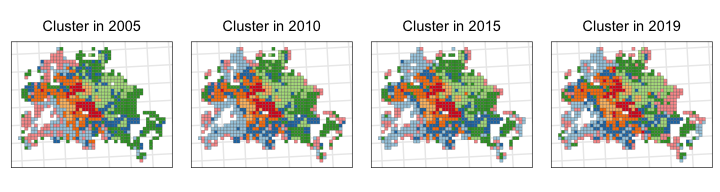
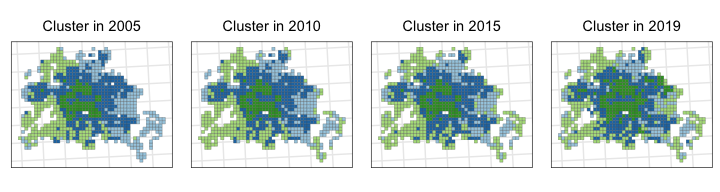
Fixed error with clustering.

diff --git a/auswertung.md b/auswertung.md
@@ -568,11 +568,7 @@ k-means clustering mit den Variablen
 - anteil_efh
 - anteil_60_plus
 
-Es werden 4 Cluster verwendet. *Hier Begründung einfügen*
-
-Zuerst clustering nur für ein Jahr, dann verwenden wir die Cluster
-Center nochmal für alle Jahre. Somit sollten die Cluster über die Zeit
-stabil bleiben.
+Schauen wieviele Cluster wir benutzen sollten.
 
 ``` r
 data_clustering_2015 <- data_social %>%
@@ -582,17 +578,9 @@ data_clustering_2015 <- data_social %>%
   as.matrix() %>%
   scale()
 
+
 set.seed(1)
-kmeans_result_2015 <- kmeans(data_clustering_2015, centers = 4)
-```
-
-Schauen wieviele Cluster wir benutzen sollten.
-
-``` r
-set.seed(1)
-
 max_cluster <- 8
-
 wss_sum <- numeric(max_cluster)
 
 for(n_cluster in 1:max_cluster){
@@ -609,10 +597,21 @@ tibble(n_cluster = 1:max_cluster,
   labs(x = "Anzahl Cluster", y = "Total WSS")
 ```
 
-![](auswertung_files/figure-gfm/unnamed-chunk-12-1.png)<!-- -->
+![](auswertung_files/figure-gfm/unnamed-chunk-11-1.png)<!-- -->
 
 ``` r
 #ggsave("./plots/plot_cluster_elbow.png")
+```
+
+Es werden 4 Cluster verwendet. *Hier Begründung einfügen*
+
+Zuerst clustering nur für ein Jahr, dann verwenden wir die Cluster
+Center nochmal für alle Jahre. Somit sollten die Cluster über die Zeit
+stabil bleiben.
+
+``` r
+set.seed(1)
+kmeans_result_2015 <- kmeans(data_clustering_2015, centers = 4)
 ```
 
 Und jetzt Clustern für alle Jahre mit dem Output von
@@ -678,13 +677,13 @@ die Mittelwerte der jeweiligen Cluster betrachten.
 kmeans_result_2015$centers %>% t() %>% round(2)
 ```
 
-    ##                            1     2     3     4     5     6     7     8
-    ## anzahl_haushalte       -0.50 -0.06  0.45 -0.63 -0.67  1.73  2.97  0.39
-    ## arbeitslosenquote      -1.13  0.29  1.27 -0.06 -1.04  1.25  0.22  0.70
-    ## kaufkraft_pro_haushalt  0.64 -0.32 -0.53 -0.23  1.96 -0.59 -0.71 -0.94
-    ## anteil_auslaender      -0.36 -0.16 -0.35 -0.54 -0.59  3.31  0.74  1.00
-    ## anteil_efh              0.31 -0.53 -0.90  1.14  1.19 -1.10 -1.14 -0.93
-    ## anteil_60_plus          0.86  0.78 -1.08 -0.21  0.29 -1.63 -1.32 -0.20
+    ##                            1     2     3     4
+    ## anzahl_haushalte       -0.63  0.29 -0.53  2.12
+    ## arbeitslosenquote      -0.06  0.80 -1.02  0.79
+    ## kaufkraft_pro_haushalt -0.28 -0.62  1.02 -0.67
+    ## anteil_auslaender      -0.52  0.13 -0.42  2.10
+    ## anteil_efh              1.03 -0.83  0.52 -1.11
+    ## anteil_60_plus         -0.12 -0.21  0.72 -1.43
 
 ``` r
 kmeans_result_2015$centers %>% t() %>% round(2) %>%
@@ -700,16 +699,16 @@ kmeans_result_2015$centers %>% t() %>% round(2) %>%
 ```
 
     ## 
-    ## \begin{tabular}[t]{lrrrrrrrr}
+    ## \begin{tabular}[t]{lrrrr}
     ## \hline \hline
-    ##   & 1 & 2 & 3 & 4 & 5 & 6 & 7 & 8\\
+    ##   & 1 & 2 & 3 & 4\\
     ## \hline
-    ## anzahl\_haushalte & -0.50 & -0.06 & 0.45 & -0.63 & -0.67 & 1.73 & 2.97 & 0.39\\
-    ## arbeitslosenquote & -1.13 & 0.29 & 1.27 & -0.06 & -1.04 & 1.25 & 0.22 & 0.70\\
-    ## kaufkraft\_pro\_haushalt & 0.64 & -0.32 & -0.53 & -0.23 & 1.96 & -0.59 & -0.71 & -0.94\\
-    ## anteil\_auslaender & -0.36 & -0.16 & -0.35 & -0.54 & -0.59 & 3.31 & 0.74 & 1.00\\
-    ## anteil\_efh & 0.31 & -0.53 & -0.90 & 1.14 & 1.19 & -1.10 & -1.14 & -0.93\\
-    ## anteil\_60\_plus & 0.86 & 0.78 & -1.08 & -0.21 & 0.29 & -1.63 & -1.32 & -0.20\\
+    ## anzahl\_haushalte & -0.63 & 0.29 & -0.53 & 2.12\\
+    ## arbeitslosenquote & -0.06 & 0.80 & -1.02 & 0.79\\
+    ## kaufkraft\_pro\_haushalt & -0.28 & -0.62 & 1.02 & -0.67\\
+    ## anteil\_auslaender & -0.52 & 0.13 & -0.42 & 2.10\\
+    ## anteil\_efh & 1.03 & -0.83 & 0.52 & -1.11\\
+    ## anteil\_60\_plus & -0.12 & -0.21 & 0.72 & -1.43\\
     ## \hline \hline
     ## \end{tabular}
 
@@ -931,7 +930,7 @@ stargazer(lm_miete_jahr, lm_mietbelastung_jahr,
 
     ## 
     ## % Table created by stargazer v.5.2.3 by Marek Hlavac, Social Policy Institute. E-mail: marek.hlavac at gmail.com
-    ## % Date and time: Tue, Jan 30, 2024 - 19:48:07
+    ## % Date and time: Wed, Jan 31, 2024 - 11:34:00
     ## \begin{table}[!htbp] \centering 
     ##   \caption{} 
     ##   \label{} 
@@ -1134,7 +1133,7 @@ stargazer(lm_miete_brennpunkt, lm_mietbelastung_brennpunkt,
 
     ## 
     ## % Table created by stargazer v.5.2.3 by Marek Hlavac, Social Policy Institute. E-mail: marek.hlavac at gmail.com
-    ## % Date and time: Tue, Jan 30, 2024 - 19:48:10
+    ## % Date and time: Wed, Jan 31, 2024 - 11:34:04
     ## \begin{table}[!htbp] \centering 
     ##   \caption{} 
     ##   \label{} 
@@ -1238,33 +1237,25 @@ summary(lm_miete_cluster)
     ## 
     ## Residuals:
     ##      Min       1Q   Median       3Q      Max 
-    ## -1.14172 -0.17051 -0.01938  0.14774  1.38845 
+    ## -1.16214 -0.17849 -0.01785  0.15642  1.38710 
     ## 
     ## Coefficients:
-    ##                 Estimate Std. Error  t value Pr(>|t|)    
-    ## (Intercept)    1.8757558  0.0020766  903.271  < 2e-16 ***
-    ## jahr           0.0460972  0.0003160  145.876  < 2e-16 ***
-    ## cluster2      -0.2131429  0.0025177  -84.657  < 2e-16 ***
-    ## cluster3      -0.2877962  0.0023033 -124.950  < 2e-16 ***
-    ## cluster4      -0.2375593  0.0037534  -63.292  < 2e-16 ***
-    ## cluster5       0.0375663  0.0071404    5.261 1.43e-07 ***
-    ## cluster6      -0.3271078  0.0024221 -135.049  < 2e-16 ***
-    ## cluster7      -0.0604568  0.0023351  -25.890  < 2e-16 ***
-    ## cluster8      -0.2823459  0.0023575 -119.766  < 2e-16 ***
-    ## jahr:cluster2  0.0112994  0.0003781   29.882  < 2e-16 ***
-    ## jahr:cluster3  0.0149387  0.0003487   42.846  < 2e-16 ***
-    ## jahr:cluster4  0.0100258  0.0005529   18.133  < 2e-16 ***
-    ## jahr:cluster5 -0.0028486  0.0010776   -2.644   0.0082 ** 
-    ## jahr:cluster6  0.0417408  0.0003705  112.669  < 2e-16 ***
-    ## jahr:cluster7  0.0227450  0.0003560   63.897  < 2e-16 ***
-    ## jahr:cluster8  0.0214574  0.0003593   59.725  < 2e-16 ***
+    ##                 Estimate Std. Error t value Pr(>|t|)    
+    ## (Intercept)    1.6375293  0.0029704  551.28   <2e-16 ***
+    ## jahr           0.0565914  0.0004322  130.94   <2e-16 ***
+    ## cluster2      -0.0316952  0.0030516  -10.39   <2e-16 ***
+    ## cluster3       0.2151485  0.0035126   61.25   <2e-16 ***
+    ## cluster4       0.0583646  0.0030776   18.96   <2e-16 ***
+    ## jahr:cluster2  0.0054266  0.0004446   12.21   <2e-16 ***
+    ## jahr:cluster3 -0.0105600  0.0005172  -20.42   <2e-16 ***
+    ## jahr:cluster4  0.0206779  0.0004496   45.99   <2e-16 ***
     ## ---
     ## Signif. codes:  0 '***' 0.001 '**' 0.01 '*' 0.05 '.' 0.1 ' ' 1
     ## 
-    ## Residual standard error: 0.259 on 1357277 degrees of freedom
+    ## Residual standard error: 0.2654 on 1357285 degrees of freedom
     ##   (521316 observations deleted due to missingness)
-    ## Multiple R-squared:  0.4317, Adjusted R-squared:  0.4317 
-    ## F-statistic: 6.873e+04 on 15 and 1357277 DF,  p-value: < 2.2e-16
+    ## Multiple R-squared:  0.4033, Adjusted R-squared:  0.4033 
+    ## F-statistic: 1.311e+05 on 7 and 1357285 DF,  p-value: < 2.2e-16
 
 Die Interpretation geschieht bei diesem Regressionsmodell ähnlich wie
 bereits bei dem Modell mit den Brennpunktgebieten, nur dass es nun statt
@@ -1299,33 +1290,25 @@ summary(lm_mietbelastung_cluster)
     ## 
     ## Residuals:
     ##     Min      1Q  Median      3Q     Max 
-    ## -4.7444 -0.3310 -0.0620  0.2782  3.4835 
+    ## -4.7834 -0.3392 -0.0676  0.2808  3.4416 
     ## 
     ## Coefficients:
     ##                 Estimate Std. Error  t value Pr(>|t|)    
-    ## (Intercept)   -1.9491017  0.0039927 -488.160  < 2e-16 ***
-    ## jahr           0.0440840  0.0006076   72.557  < 2e-16 ***
-    ## cluster2      -0.0544686  0.0048408  -11.252  < 2e-16 ***
-    ## cluster3       0.1275058  0.0044285   28.792  < 2e-16 ***
-    ## cluster4       0.1955950  0.0072167   27.103  < 2e-16 ***
-    ## cluster5      -0.0093499  0.0137289   -0.681    0.496    
-    ## cluster6       0.0259616  0.0046571    5.575 2.48e-08 ***
-    ## cluster7       0.2481329  0.0044897   55.267  < 2e-16 ***
-    ## cluster8      -0.0414025  0.0045328   -9.134  < 2e-16 ***
-    ## jahr:cluster2 -0.0085363  0.0007271  -11.741  < 2e-16 ***
-    ## jahr:cluster3 -0.0316678  0.0006704  -47.239  < 2e-16 ***
-    ## jahr:cluster4 -0.0410656  0.0010631  -38.630  < 2e-16 ***
-    ## jahr:cluster5 -0.0121587  0.0020718   -5.869 4.40e-09 ***
-    ## jahr:cluster6  0.0030891  0.0007123    4.337 1.45e-05 ***
-    ## jahr:cluster7  0.0065101  0.0006844    9.512  < 2e-16 ***
-    ## jahr:cluster8  0.0050429  0.0006908    7.300 2.87e-13 ***
+    ## (Intercept)   -1.7846038  0.0056655 -314.996  < 2e-16 ***
+    ## jahr           0.0094997  0.0008243   11.524  < 2e-16 ***
+    ## cluster2      -0.1213313  0.0058204  -20.846  < 2e-16 ***
+    ## cluster3      -0.1813756  0.0066997  -27.072  < 2e-16 ***
+    ## cluster4      -0.0248711  0.0058700   -4.237 2.27e-05 ***
+    ## jahr:cluster2  0.0183340  0.0008480   21.621  < 2e-16 ***
+    ## jahr:cluster3  0.0313419  0.0009865   31.770  < 2e-16 ***
+    ## jahr:cluster4  0.0409786  0.0008576   47.784  < 2e-16 ***
     ## ---
     ## Signif. codes:  0 '***' 0.001 '**' 0.01 '*' 0.05 '.' 0.1 ' ' 1
     ## 
-    ## Residual standard error: 0.4981 on 1357277 degrees of freedom
+    ## Residual standard error: 0.5063 on 1357285 degrees of freedom
     ##   (521316 observations deleted due to missingness)
-    ## Multiple R-squared:  0.1182, Adjusted R-squared:  0.1182 
-    ## F-statistic: 1.213e+04 on 15 and 1357277 DF,  p-value: < 2.2e-16
+    ## Multiple R-squared:  0.08901,    Adjusted R-squared:  0.08901 
+    ## F-statistic: 1.895e+04 on 7 and 1357285 DF,  p-value: < 2.2e-16
 
 ``` r
 # Stargazer Tabelle
@@ -1341,7 +1324,7 @@ stargazer(lm_miete_cluster, lm_mietbelastung_cluster,
 
     ## 
     ## % Table created by stargazer v.5.2.3 by Marek Hlavac, Social Policy Institute. E-mail: marek.hlavac at gmail.com
-    ## % Date and time: Tue, Jan 30, 2024 - 19:48:15
+    ## % Date and time: Wed, Jan 31, 2024 - 11:34:07
     ## \begin{table}[!htbp] \centering 
     ##   \caption{} 
     ##   \label{} 
@@ -1353,42 +1336,26 @@ stargazer(lm_miete_cluster, lm_mietbelastung_cluster,
     ## \\[-1.8ex] & log Kaltmiete (€/m\textsuperscript{2}) & log Mietbelastung (\%) \\ 
     ## \\[-1.8ex] & (1) & (2)\\ 
     ## \hline \\[-1.8ex] 
-    ##  Jahr & 0.046$^{***}$ & 0.044$^{***}$ \\ 
-    ##   & (0.0003) & (0.001) \\ 
-    ##   Cluster2 & $-$0.213$^{***}$ & $-$0.054$^{***}$ \\ 
-    ##   & (0.003) & (0.005) \\ 
-    ##   Cluster3 & $-$0.288$^{***}$ & 0.128$^{***}$ \\ 
-    ##   & (0.002) & (0.004) \\ 
-    ##   Cluster4 & $-$0.238$^{***}$ & 0.196$^{***}$ \\ 
+    ##  Jahr & 0.057$^{***}$ & 0.009$^{***}$ \\ 
+    ##   & (0.0004) & (0.001) \\ 
+    ##   Cluster2 & $-$0.032$^{***}$ & $-$0.121$^{***}$ \\ 
+    ##   & (0.003) & (0.006) \\ 
+    ##   Cluster3 & 0.215$^{***}$ & $-$0.181$^{***}$ \\ 
     ##   & (0.004) & (0.007) \\ 
-    ##   Jahr*Cluster2 & 0.038$^{***}$ & $-$0.009 \\ 
-    ##   & (0.007) & (0.014) \\ 
-    ##   Jahr*Cluster3 & $-$0.327$^{***}$ & 0.026$^{***}$ \\ 
-    ##   & (0.002) & (0.005) \\ 
-    ##   Jahr*Cluster4 & $-$0.060$^{***}$ & 0.248$^{***}$ \\ 
-    ##   & (0.002) & (0.004) \\ 
-    ##   Konstante & $-$0.282$^{***}$ & $-$0.041$^{***}$ \\ 
-    ##   & (0.002) & (0.005) \\ 
-    ##   jahr:cluster2 & 0.011$^{***}$ & $-$0.009$^{***}$ \\ 
+    ##   Cluster4 & 0.058$^{***}$ & $-$0.025$^{***}$ \\ 
+    ##   & (0.003) & (0.006) \\ 
+    ##   Jahr*Cluster2 & 0.005$^{***}$ & 0.018$^{***}$ \\ 
     ##   & (0.0004) & (0.001) \\ 
-    ##   jahr:cluster3 & 0.015$^{***}$ & $-$0.032$^{***}$ \\ 
-    ##   & (0.0003) & (0.001) \\ 
-    ##   jahr:cluster4 & 0.010$^{***}$ & $-$0.041$^{***}$ \\ 
+    ##   Jahr*Cluster3 & $-$0.011$^{***}$ & 0.031$^{***}$ \\ 
     ##   & (0.001) & (0.001) \\ 
-    ##   jahr:cluster5 & $-$0.003$^{***}$ & $-$0.012$^{***}$ \\ 
-    ##   & (0.001) & (0.002) \\ 
-    ##   jahr:cluster6 & 0.042$^{***}$ & 0.003$^{***}$ \\ 
+    ##   Jahr*Cluster4 & 0.021$^{***}$ & 0.041$^{***}$ \\ 
     ##   & (0.0004) & (0.001) \\ 
-    ##   jahr:cluster7 & 0.023$^{***}$ & 0.007$^{***}$ \\ 
-    ##   & (0.0004) & (0.001) \\ 
-    ##   jahr:cluster8 & 0.021$^{***}$ & 0.005$^{***}$ \\ 
-    ##   & (0.0004) & (0.001) \\ 
-    ##   Constant & 1.876$^{***}$ & $-$1.949$^{***}$ \\ 
-    ##   & (0.002) & (0.004) \\ 
+    ##   Konstante & 1.638$^{***}$ & $-$1.785$^{***}$ \\ 
+    ##   & (0.003) & (0.006) \\ 
     ##  \hline \\[-1.8ex] 
     ## Observations & 1,357,293 & 1,357,293 \\ 
-    ## R$^{2}$ & 0.432 & 0.118 \\ 
-    ## Adjusted R$^{2}$ & 0.432 & 0.118 \\ 
+    ## R$^{2}$ & 0.403 & 0.089 \\ 
+    ## Adjusted R$^{2}$ & 0.403 & 0.089 \\ 
     ## \hline 
     ## \hline \\[-1.8ex] 
     ## \textit{Anmerkung:} & \multicolumn{2}{r}{$^{*}$p$<$0.1; $^{**}$p$<$0.05; $^{***}$p$<$0.01} \\ 
@@ -1583,7 +1550,7 @@ stargazer(lm_mietekalt_LQ, lm_mietbelastung_LQ,
 
     ## 
     ## % Table created by stargazer v.5.2.3 by Marek Hlavac, Social Policy Institute. E-mail: marek.hlavac at gmail.com
-    ## % Date and time: Tue, Jan 30, 2024 - 19:48:18
+    ## % Date and time: Wed, Jan 31, 2024 - 11:34:10
     ## \begin{table}[!htbp] \centering 
     ##   \caption{} 
     ##   \label{} 
